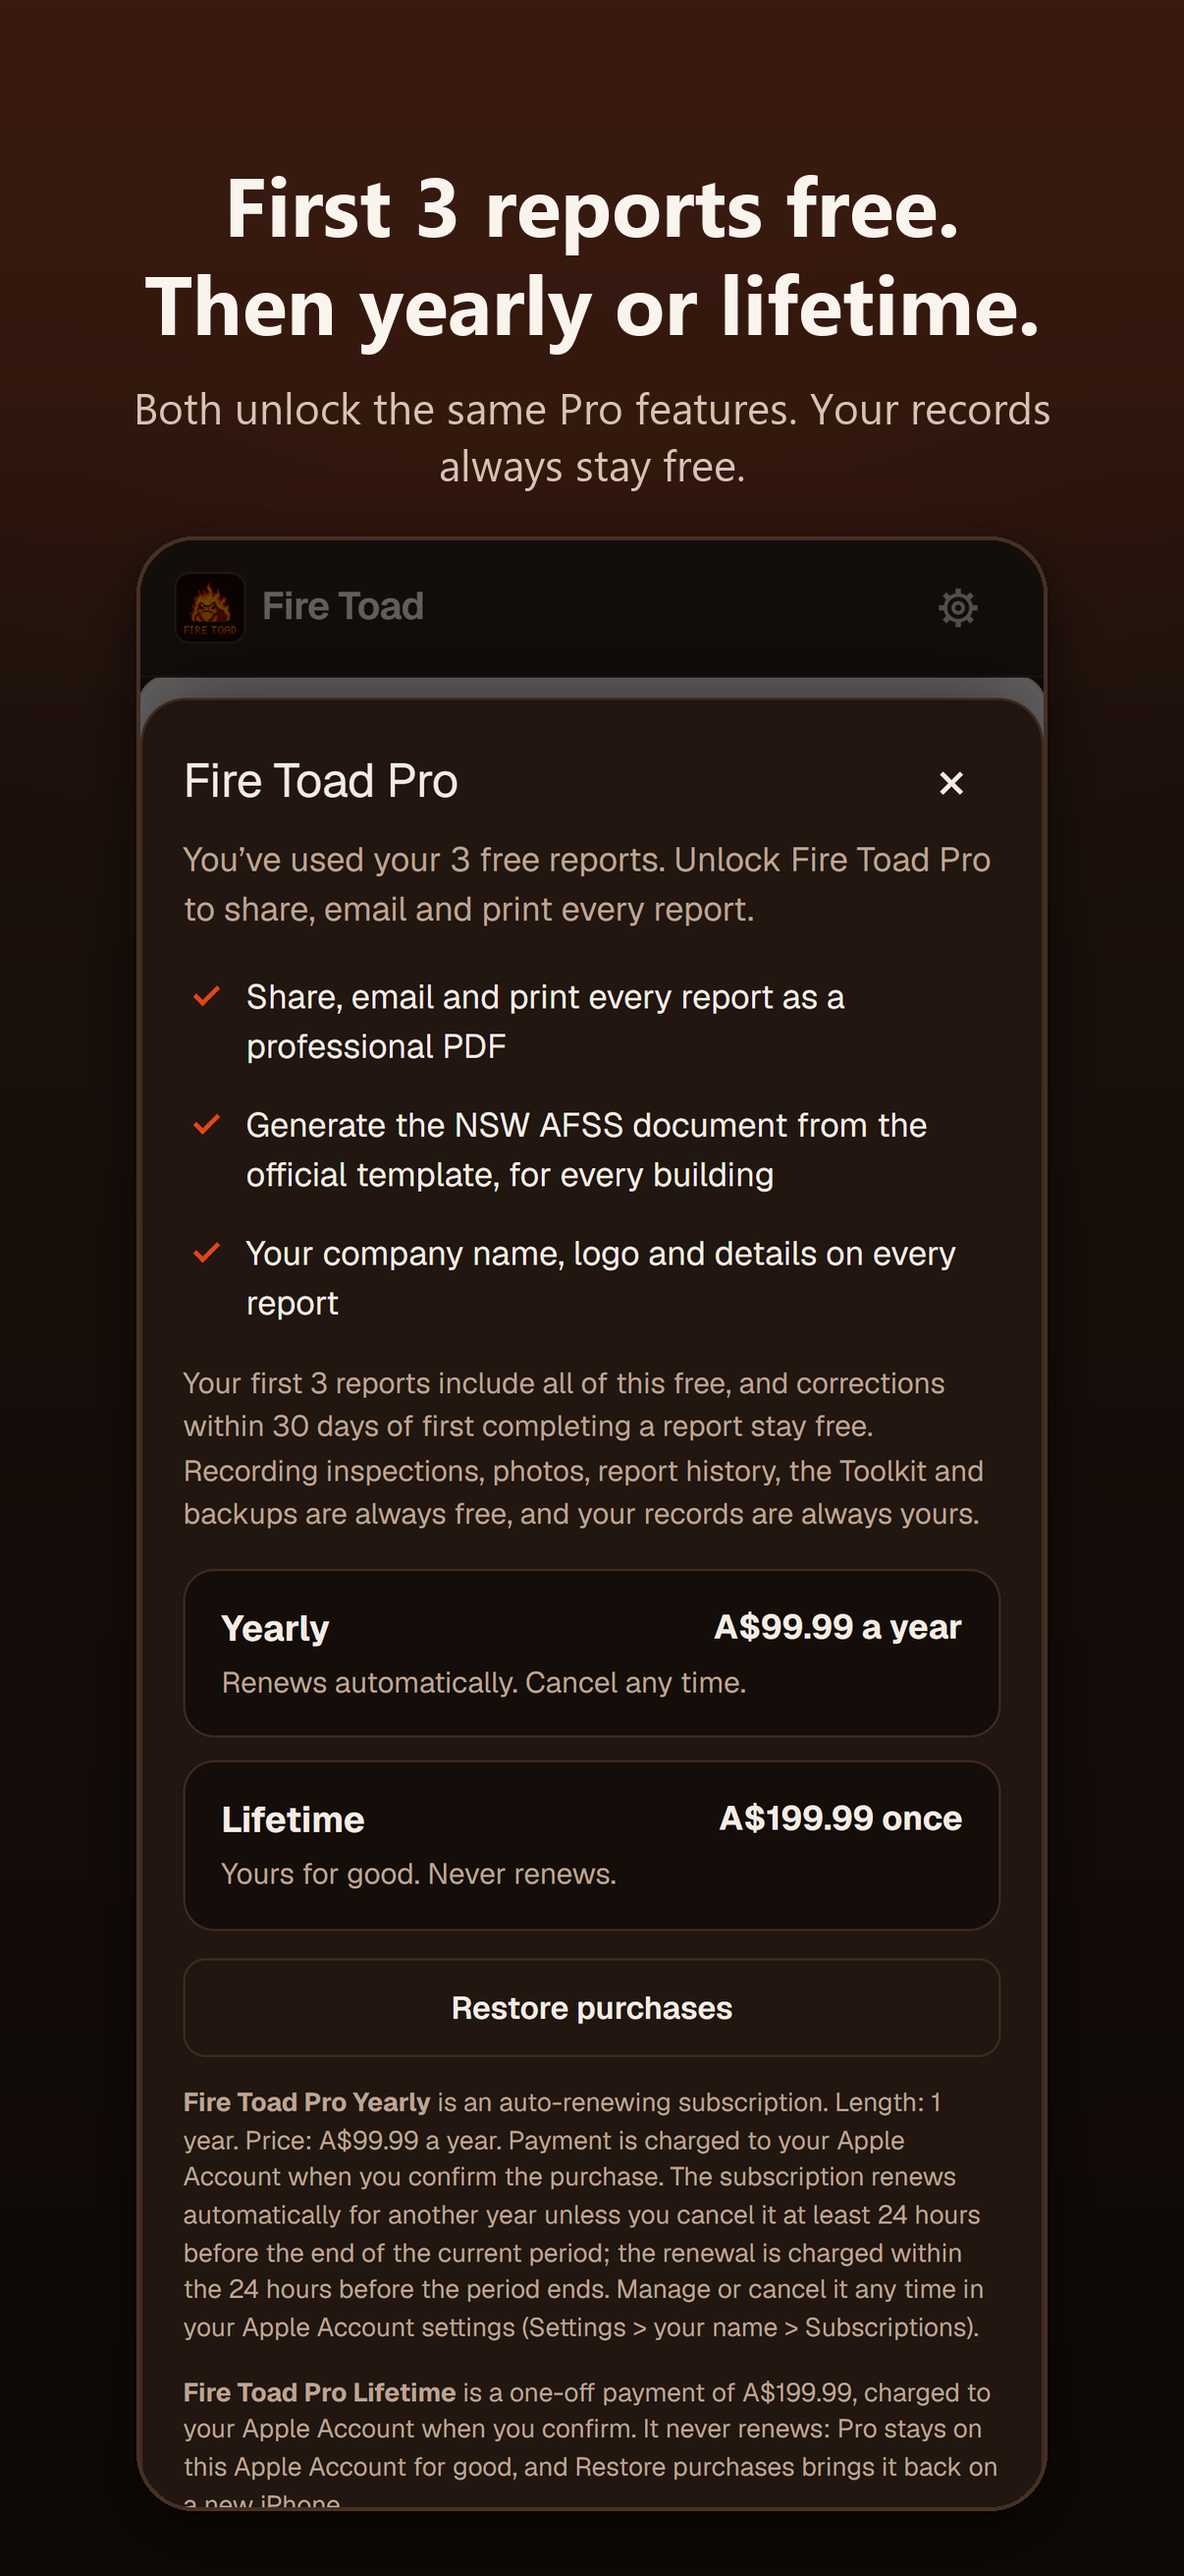
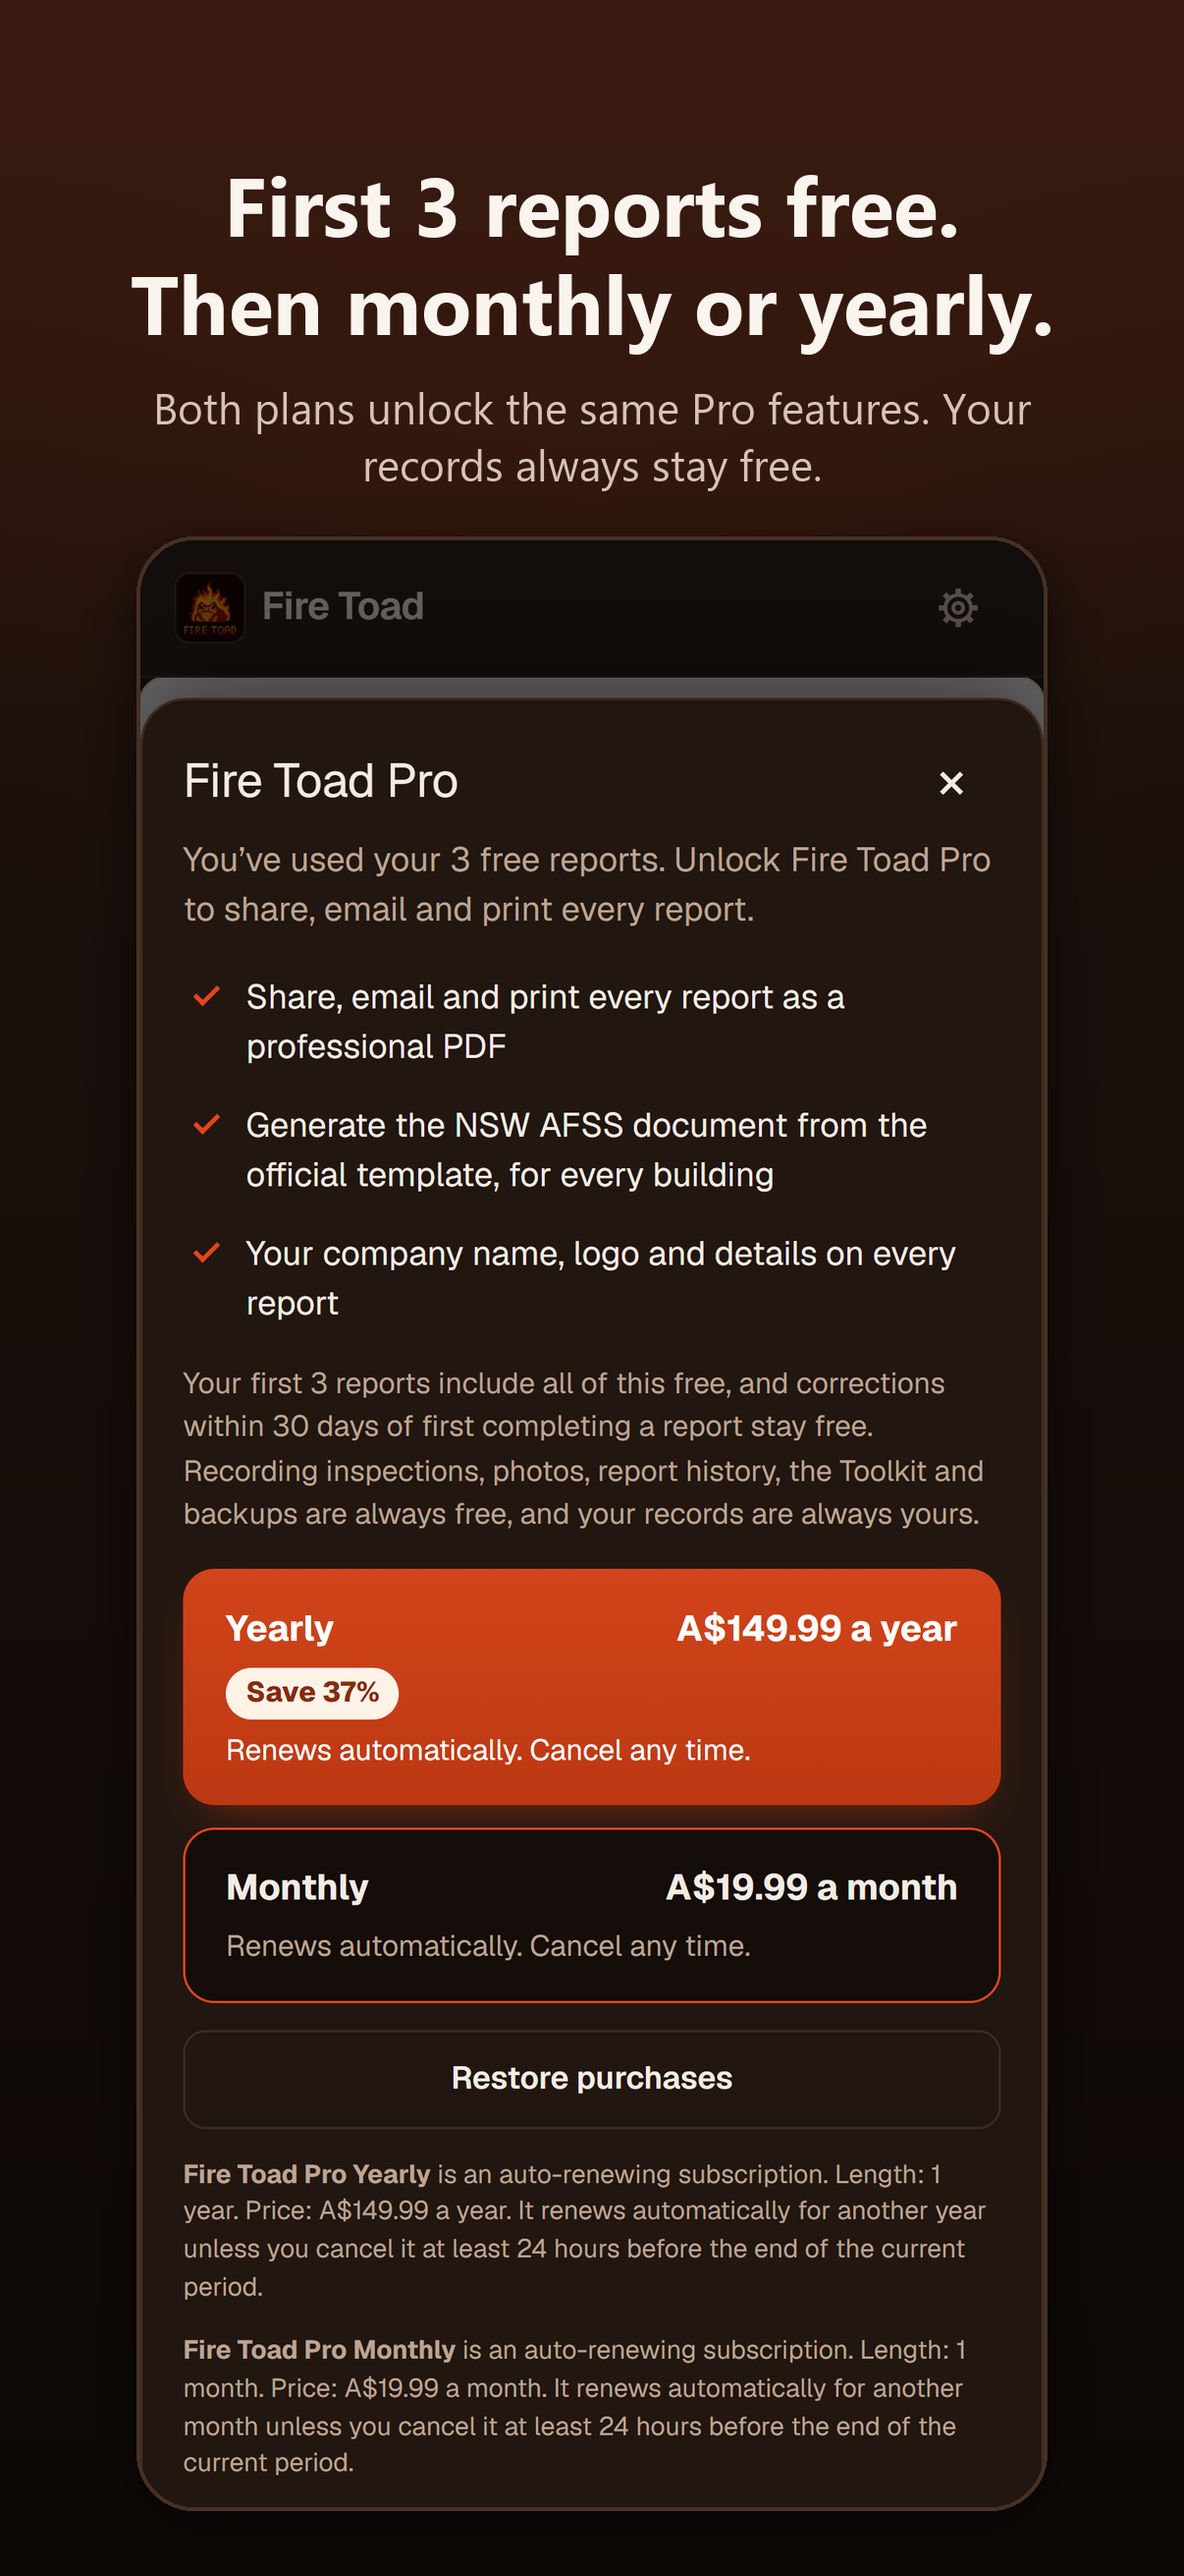
Fire Toad Pro is monthly or yearly; brand-only footer and privacy wording
- Pro is a monthly or yearly subscription with the same features; the
  lifetime purchase is gone from every page and guide
- Support explains cancelling and switching plans in Apple Account settings
- Footers read "© 2026 Fire Toad"; the privacy policy names the developer
  as listed on the App Store
- Pro review screenshots for both plans

Changed region(s): [[0.1534, 0.587, 0.859, 0.9886], [0.1227, 0.0927, 0.8897, 0.1854]]

diff --git a/support/index.html b/support/index.html
@@ -46,11 +46,11 @@
 
   <h2>Fire Toad Pro</h2>
   <p>Fire Toad is free to download. Recording buildings, schedules and inspections, photos, report history, the Toolkit and backups are always free, and your records are always yours.</p>
-  <p>Your first 3 reports include everything: Share PDF, Email report, Print / Save as PDF, your company branding and each report's AFSS document. Corrections to a report within 30 days of first completing it don't use another one; completing it again after that counts as a new report. After that, <strong>Fire Toad Pro</strong> unlocks them for every report. Choose <strong>Yearly</strong>, a subscription that renews automatically each year until you cancel it, or <strong>Lifetime</strong>, a one-off purchase that never renews. Both unlock exactly the same features, and the app shows the price for your country before you buy. Open <strong>Toolkit &rarr; Fire Toad Pro</strong> to buy it.</p>
+  <p>Your first 3 reports include everything: Share PDF, Email report, Print / Save as PDF, your company branding and each report's AFSS document. Corrections to a report within 30 days of first completing it don't use another one; completing it again after that counts as a new report. After that, <strong>Fire Toad Pro</strong> unlocks them for every report. Choose <strong>Monthly</strong> or <strong>Yearly</strong>: both are subscriptions that renew automatically until you cancel, and both unlock exactly the same features. The app shows the price for your country before you subscribe. Open <strong>Toolkit &rarr; Fire Toad Pro</strong> to subscribe.</p>
   <ul>
     <li><strong>New iPhone?</strong> Open Toolkit &rarr; Fire Toad Pro and tap <strong>Restore purchases</strong>, signed in with the same Apple Account.</li>
-    <li><strong>Cancelling the yearly plan:</strong> open Toolkit &rarr; Fire Toad Pro &rarr; <strong>Manage subscription</strong>, or Settings &rarr; your name &rarr; Subscriptions on your iPhone. Cancel at least 24 hours before it renews to avoid being charged for another year. Pro stays on until the end of the year you've paid for.</li>
-    <li><strong>Moving from yearly to lifetime?</strong> Buy Lifetime, then cancel the yearly plan in Manage subscription so it doesn't renew.</li>
+    <li><strong>Cancelling:</strong> your subscription is managed in your Apple Account settings. Open Toolkit &rarr; Fire Toad Pro &rarr; <strong>Manage subscription</strong>, or Settings &rarr; your name &rarr; Subscriptions on your iPhone. Cancel at least 24 hours before it renews to avoid being charged for another month or year. Pro stays on until the end of the period you've paid for.</li>
+    <li><strong>Switching between monthly and yearly:</strong> in the same place (Manage subscription, or Settings &rarr; your name &rarr; Subscriptions), choose the other plan. Apple makes the change and shows you when it starts, and Pro carries on without a break.</li>
     <li><strong>Bought Fire Toad before version 1.3?</strong> Pro is included for you at no extra cost, for good. Toolkit &rarr; Fire Toad Pro shows it as active.</li>
     <li><strong>Refunds</strong> are handled by Apple: go to <a href="https://reportaproblem.apple.com">reportaproblem.apple.com</a>.</li>
   </ul>
@@ -67,7 +67,7 @@
 
 <footer class="bottom">
   <div class="wrap">
-    <span>© 2026 Michael Tabet · Fire Toad</span>
+    <span>© 2026 Fire Toad</span>
     <span><a href="../guides/">Guides</a> · <a href="./">Support</a> · <a href="../privacy/">Privacy policy</a></span>
   </div>
 </footer>

diff --git a/privacy/index.html b/privacy/index.html
@@ -27,11 +27,11 @@
   <p class="meta">Last updated 25 October 2026 · Applies to the Fire Toad app on iPhone and Android</p>
 
   <div class="box">
-    <p style="margin:0"><strong>In short:</strong> everything you record in Fire Toad is stored on your device. The app has no account and no server, and it sends nothing to us. The only outside service it uses is Apple's App Store, for purchases. It has no analytics, advertising or tracking.</p>
+    <p style="margin:0"><strong>In short:</strong> everything you record in Fire Toad is stored on your device. The app has no account and no server, and it sends nothing to us. The only outside service it uses is Apple's App Store, for Fire Toad Pro subscriptions. It has no analytics, advertising or tracking.</p>
   </div>
 
   <h2>Who we are</h2>
-  <p>Fire Toad is published by Michael Tabet, the developer listed on the App Store ("we", "us"). Fire Toad is an offline record-keeping tool for fire safety inspections and preparing annual fire safety statements.</p>
+  <p>Fire Toad is published by its developer, as listed on the App Store ("we", "us"). Fire Toad is an offline record-keeping tool for fire safety inspections and preparing annual fire safety statements.</p>
 
   <h2>What the app stores, and where</h2>
   <p>To do its job, the app stores what you enter, <strong>on your device only</strong>:</p>
@@ -47,7 +47,7 @@
   <p><strong>Nothing.</strong> The app does not send your data to us or to any third party, and we cannot see or access it. There is no sign-in, no cloud sync, no analytics, no advertising and no third-party tracking.</p>
 
   <h2>Purchases</h2>
-  <p>Fire Toad Pro, the yearly subscription or the lifetime purchase, is bought through Apple's App Store. Apple handles the payment and any renewals, and we receive no payment details or personal information from it. The app checks your purchase or subscription on your device with Apple's StoreKit, so there is still no account and nothing is sent to us.</p>
+  <p>Fire Toad Pro, a monthly or yearly subscription, is bought through Apple's App Store. Apple handles the payment and the renewals, and we receive no payment details or personal information from it. The app checks your subscription on your device with Apple's StoreKit, so there is still no account and nothing is sent to us.</p>
 
   <h2>Camera, photos and microphone</h2>
   <p>The app asks for camera and photo library access only when you choose to attach a photo, for example of a defect. If you record a video, the microphone is used for that recording. These photos and recordings stay on your device inside the app.</p>
@@ -73,7 +73,7 @@
 
 <footer class="bottom">
   <div class="wrap">
-    <span>© 2026 Michael Tabet · Fire Toad</span>
+    <span>© 2026 Fire Toad</span>
     <span><a href="../guides/">Guides</a> · <a href="../support/">Support</a> · <a href="./">Privacy policy</a></span>
   </div>
 </footer>

diff --git a/guides/as1851-frequencies/index.html b/guides/as1851-frequencies/index.html
@@ -137,7 +137,7 @@
     <h2>Keep the intervals with the building</h2>
     <p>Fire Toad is an iPhone app for fire safety practitioners. Record each building's schedule, inspect measure by measure on site, log routine service activities against each measure, and see what's due. The offline toolkit includes a standards search by clause number and a measures directory. Your data stays on your phone, with no account needed.</p>
     <a class="btn primary" href="https://apps.apple.com/app/id6818058403">Get Fire Toad on the App Store</a>
-    <p class="note">Free to download, with your first 3 reports included. Fire Toad Pro, a yearly subscription or a one-off lifetime purchase, covers reports after that. Fire Toad cites standards by clause number with plain-language summaries and never reproduces them. Use your own licensed copy for the activities.</p>
+    <p class="note">Free to download, with your first 3 reports included. Fire Toad Pro, a monthly or yearly subscription, covers reports after that. Fire Toad cites standards by clause number with plain-language summaries and never reproduces them. Use your own licensed copy for the activities.</p>
   </section>
 
   <h2 id="sources">Sources</h2>
@@ -157,7 +157,7 @@
 
 <footer class="bottom">
   <div class="wrap">
-    <span>© 2026 Michael Tabet · Fire Toad</span>
+    <span>© 2026 Fire Toad</span>
     <span><a href="../">Guides</a> · <a href="../../support/">Support</a> · <a href="../../privacy/">Privacy policy</a></span>
   </div>
 </footer>

diff --git a/guides/afss-nsw/index.html b/guides/afss-nsw/index.html
@@ -191,7 +191,7 @@
     <h2>Doing this on site? Fire Toad keeps it in one place</h2>
     <p>Fire Toad is an iPhone app for fire safety practitioners. You load the building's schedule and work through each measure on site (satisfactory, defect or N/A, with checklists, photos and notes), logging critical and non-critical defects as you go. It produces your branded inspection report, and it fills the official NSW AFSS template from the inspection, unaltered and without branding, with a readiness check. Everything stays on your phone, with no account. It is a record-keeping tool: the assessment and the declaration are still yours and the owner's.</p>
     <a class="btn primary" href="https://apps.apple.com/app/id6818058403">Get Fire Toad on the App Store</a>
-    <p class="note">Free to download, with your first 3 reports included. Fire Toad Pro, a yearly subscription or a one-off lifetime purchase, covers reports after that.</p>
+    <p class="note">Free to download, with your first 3 reports included. Fire Toad Pro, a monthly or yearly subscription, covers reports after that.</p>
   </section>
 
   <h2 id="sources">Sources</h2>
@@ -217,7 +217,7 @@
 
 <footer class="bottom">
   <div class="wrap">
-    <span>© 2026 Michael Tabet · Fire Toad</span>
+    <span>© 2026 Fire Toad</span>
     <span><a href="../">Guides</a> · <a href="../../support/">Support</a> · <a href="../../privacy/">Privacy policy</a></span>
   </div>
 </footer>

diff --git a/guides/critical-defects/index.html b/guides/critical-defects/index.html
@@ -164,7 +164,7 @@
     <h2>Log defects where you find them</h2>
     <p>Fire Toad is an iPhone app for fire safety practitioners. During a guided site inspection you can log a critical or non-critical defect against the measure, with photos and notes, and track it until it's rectified. Defects carry through to your branded inspection report. The offline toolkit includes a defect classifier to help you think the classification through, though the call is still yours. Everything stays on your phone, with no account needed.</p>
     <a class="btn primary" href="https://apps.apple.com/app/id6818058403">Get Fire Toad on the App Store</a>
-    <p class="note">Free to download, with your first 3 reports included. Fire Toad Pro, a yearly subscription or a one-off lifetime purchase, covers reports after that.</p>
+    <p class="note">Free to download, with your first 3 reports included. Fire Toad Pro, a monthly or yearly subscription, covers reports after that.</p>
   </section>
 
   <h2 id="sources">Sources</h2>
@@ -183,7 +183,7 @@
 
 <footer class="bottom">
   <div class="wrap">
-    <span>© 2026 Michael Tabet · Fire Toad</span>
+    <span>© 2026 Fire Toad</span>
     <span><a href="../">Guides</a> · <a href="../../support/">Support</a> · <a href="../../privacy/">Privacy policy</a></span>
   </div>
 </footer>

diff --git a/index.html b/index.html
@@ -35,7 +35,7 @@
         <a class="btn primary" href="https://apps.apple.com/app/id6818058403">Get Fire Toad on the App Store</a>
         <a class="btn" href="#features">See what it does</a>
       </div>
-      <p class="note">iPhone: free to download. Your first 3 reports include sharing, emailing, printing, your company branding and the AFSS document; after that, those need Fire Toad Pro, as a yearly subscription or a one-off lifetime purchase. Recording inspections is always free. Android: every feature included.</p>
+      <p class="note">iPhone: free to download. Your first 3 reports include sharing, emailing, printing, your company branding and the AFSS document; after that, those need Fire Toad Pro, a monthly or yearly subscription with the same features. Recording inspections is always free. Android: every feature included.</p>
     </div>
     <img class="logo" src="firetoad-logo.jpg" alt="The Fire Toad logo: a pixel-art toad in flames">
   </div>
@@ -94,7 +94,7 @@
 
 <footer class="bottom">
   <div class="wrap">
-    <span>© 2026 Michael Tabet · Fire Toad</span>
+    <span>© 2026 Fire Toad</span>
     <span><a href="guides/">Guides</a> · <a href="support/">Support</a> · <a href="privacy/">Privacy policy</a></span>
   </div>
 </footer>

diff --git a/guides/index.html b/guides/index.html
@@ -59,7 +59,7 @@
 
 <footer class="bottom">
   <div class="wrap">
-    <span>© 2026 Michael Tabet · Fire Toad</span>
+    <span>© 2026 Fire Toad</span>
     <span><a href="./">Guides</a> · <a href="../support/">Support</a> · <a href="../privacy/">Privacy policy</a></span>
   </div>
 </footer>

diff --git a/screenshots/index.html b/screenshots/index.html
@@ -63,7 +63,7 @@
 </main>
 <footer class="bottom">
   <div class="wrap">
-    <span>© 2026 Michael Tabet · Fire Toad</span>
+    <span>© 2026 Fire Toad</span>
     <span><a href="../support/">Support</a> · <a href="../privacy/">Privacy policy</a></span>
   </div>
 </footer>
